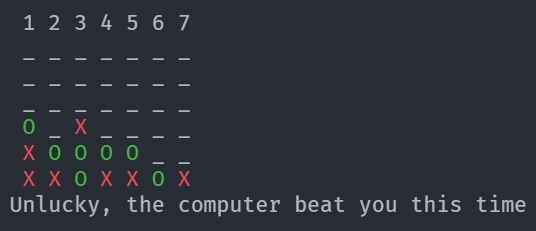
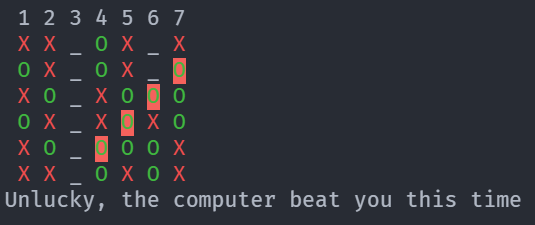
Highlight winning moves

Changed region(s): [[0.0, 0.0311, 0.9869, 0.9644], [0.329, 0.1556, 0.3589, 0.2178]]

diff --git a/game/game.go b/game/game.go
@@ -18,12 +18,12 @@ type Game struct {
 	CurrentTurn int
 }
 
-func (g Game) IsWinner(piece int) bool {
+func (g Game) WinningMove(piece int) (x1, y1, x2, y2, x3, y3, x4, y4 int) {
 	for x := 0; x < BoardX-3; x++ {
 		for y := 0; y < BoardY; y++ {
 			if g.Board[x][y] == piece && g.Board[x+1][y] == piece && g.Board[x+2][y] == piece && g.Board[x+3][y] == piece {
 				// log.Printf("Found horizontal win at (%v, %v)", x, y)
-				return true
+				return x, y, x + 1, y, x + 2, y, x + 3, y
 			}
 		}
 	}
@@ -32,7 +32,7 @@ func (g Game) IsWinner(piece int) bool {
 		for y := 0; y < BoardY-3; y++ {
 			if g.Board[x][y] == piece && g.Board[x][y+1] == piece && g.Board[x][y+2] == piece && g.Board[x][y+3] == piece {
 				// log.Printf("Found vertical win at (%v, %v)", x, y)
-				return true
+				return x, y, x, y + 1, x, y + 2, x, y + 3
 			}
 		}
 	}
@@ -41,7 +41,7 @@ func (g Game) IsWinner(piece int) bool {
 		for y := 0; y < BoardY-3; y++ {
 			if g.Board[x][y] == piece && g.Board[x+1][y+1] == piece && g.Board[x+2][y+2] == piece && g.Board[x+3][y+3] == piece {
 				// log.Printf("Found NE/SW diagonal win at (%v, %v)", x, y)
-				return true
+				return x, y, x + 1, y + 1, x + 2, y + 2, x + 3, y + 3
 			}
 		}
 	}
@@ -50,12 +50,17 @@ func (g Game) IsWinner(piece int) bool {
 		for y := 0; y < BoardY-3; y++ {
 			if g.Board[x][y] == piece && g.Board[x-1][y+1] == piece && g.Board[x-2][y+2] == piece && g.Board[x-3][y+3] == piece {
 				// log.Printf("Found NW/SE diagonal win at (%v, %v)", x, y)
-				return true
+				return x, y, x - 1, y + 1, x - 2, y + 2, x - 3, y + 3
 			}
 		}
 	}
 
-	return false
+	return -1, -1, -1, -1, -1, -1, -1, -1
+}
+
+func (g Game) IsWinner(piece int) bool {
+	x1, y1, x2, y2, x3, y3, x4, y4 := g.WinningMove(piece)
+	return x1 != -1 && y1 != -1 && x2 != -1 && y2 != -1 && x3 != -1 && y3 != -1 && x4 != -1 && y4 != -1
 }
 
 func (g Game) IsFull() bool {

diff --git a/main.go b/main.go
@@ -54,6 +54,13 @@ func askPlace(g *game.Game) {
 }
 
 func printBoard(g game.Game) {
+	var winX1, winY1, winX2, winY2, winX3, winY3, winX4, winY4 int = -1, -1, -1, -1, -1, -1, -1, -1
+	if g.IsWinner(game.PieceA) {
+		winX1, winY1, winX2, winY2, winX3, winY3, winX4, winY4 = g.WinningMove(game.PieceA)
+	} else if g.IsWinner(game.PieceB) {
+		winX1, winY1, winX2, winY2, winX3, winY3, winX4, winY4 = g.WinningMove(game.PieceB)
+	}
+
 	fmt.Print("\n")
 	for col := 1; col < game.BoardX+1; col++ {
 		fmt.Printf(" %v", col)
@@ -62,16 +69,22 @@ func printBoard(g game.Game) {
 
 	for y := 0; y < game.BoardY; y++ {
 		for x := 0; x < game.BoardX; x++ {
+			fmt.Print(" ")
+
+			if (x == winX1 && y == winY1) || (x == winX2 && y == winY2) || (x == winX3 && y == winY3) || (x == winX4 && y == winY4) {
+				ct.Background(ct.Yellow, false)
+			}
+
 			switch g.Board[x][y] {
 			case game.PieceEmpty:
-				fmt.Print(" _")
+				fmt.Print("_")
 			case game.PieceA:
 				ct.Foreground(ct.Red, true)
-				fmt.Print(" X")
+				fmt.Print("X")
 				ct.ResetColor()
 			case game.PieceB:
 				ct.Foreground(ct.Green, true)
-				fmt.Print(" O")
+				fmt.Print("O")
 				ct.ResetColor()
 			}
 		}
